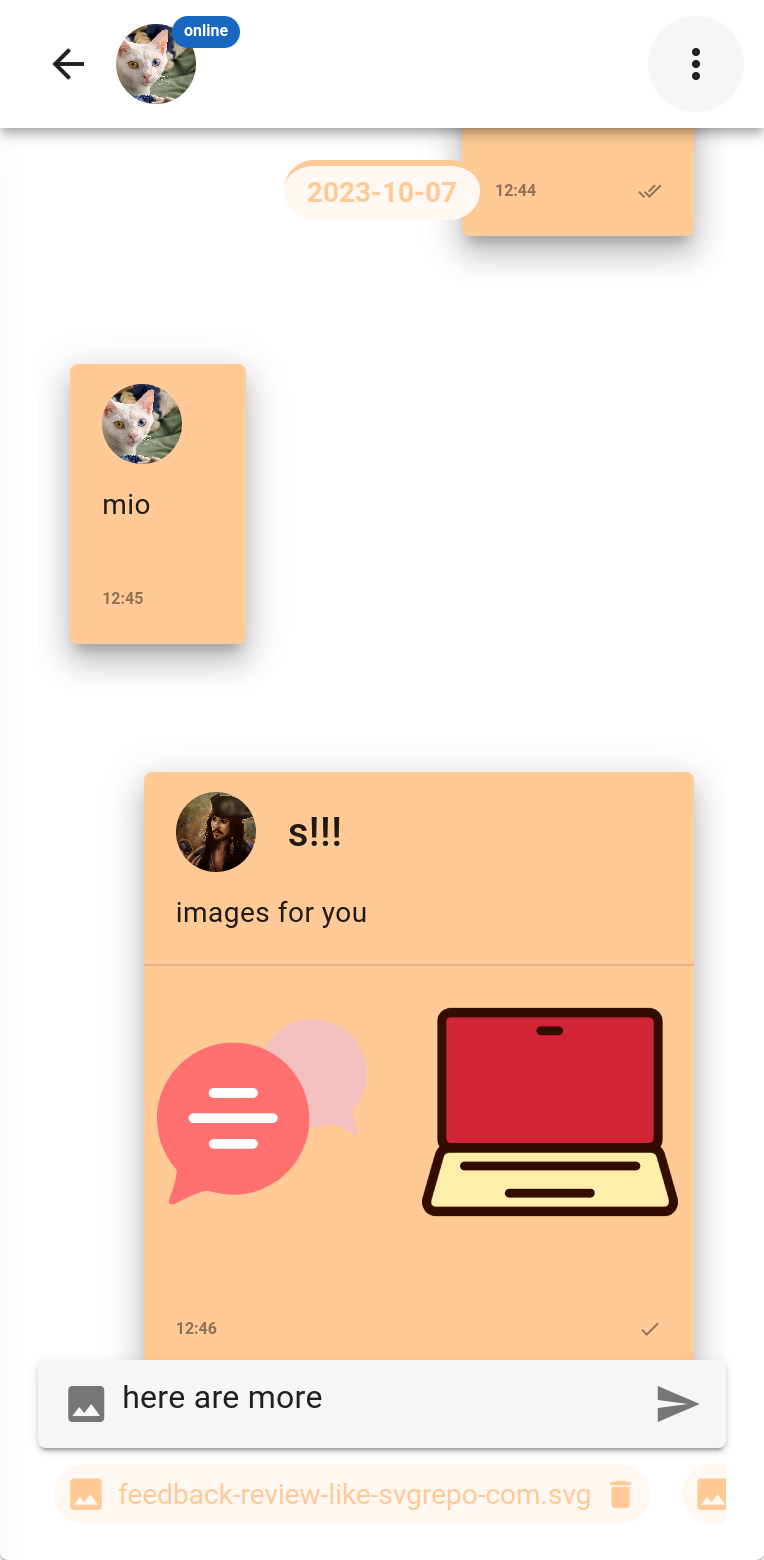
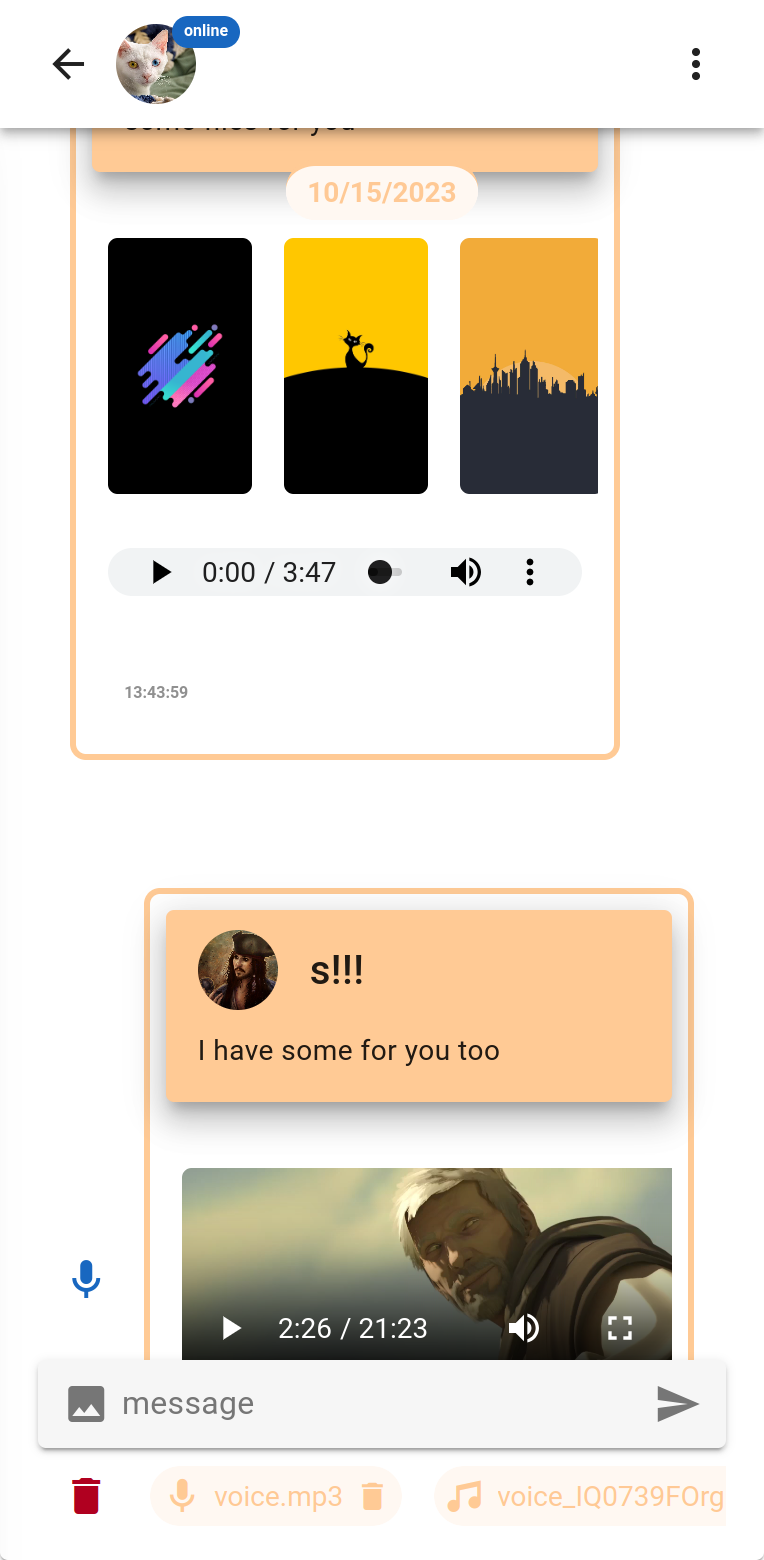
38

diff --git a/src/components/tgChatPage.vue b/src/components/tgChatPage.vue
@@ -13,24 +13,30 @@
 
     </v-card>
 
-      <div v-if="message.files.filter(name=>getType(name)?.startsWith('image')).length" style="display: flex;overflow: auto;white-space: nowrap;height: 10rem;align-items: end;">
-        <template  v-for="file in message.files.filter(name=>getType(name)?.startsWith('image'))" :key="file">
+      <div v-if="message.files.filter(name=>getFileType(name)=='image').length" style="display: flex;overflow: auto;white-space: nowrap;height: 10rem;align-items: end;">
+        <template  v-for="file in message.files.filter(name=>getFileType(name)=='image')" :key="file">
           <img @click="sheet = !sheet;image=`/api/files/chatMessages/${message.id}/${file}`" style="border-radius: .3rem;margin: .5rem;height: 8rem;" :src="`/api/files/chatMessages/${message.id}/${file}`" onerror="this.style.display='none'">
         </template>
       </div>
-      <div v-if="message.files.filter(name=>getType(name)?.startsWith('video')).length" style="display: flex;overflow: auto;white-space: nowrap;height: 10rem;align-items: end;margin-bottom: 1rem;">
-        <template  v-for="file in message.files.filter(name=>getType(name)?.startsWith('video'))" :key="file">
+      <div v-if="message.files.filter(name=>getFileType(name)=='video').length" style="display: flex;overflow: auto;white-space: nowrap;height: 10rem;align-items: end;margin-bottom: 1rem;">
+        <template  v-for="file in message.files.filter(name=>getFileType(name)=='video')" :key="file">
           <video controls preload="metadata" style="margin: .5rem;height: 8rem;border-radius: .3rem;" :src="`/api/files/chatMessages/${message.id}/${file}`" onerror="this.style.display='none'"></video>
         </template>
       </div>
       <div style="display: flex;align-items: center;flex-direction: column;">
-        <template  v-for="file in message.files.filter(name=>getType(name)?.startsWith('audio'))" :key="file">
+        <template  v-for="file in message.files.filter(name=>getFileType(name)=='audio')" :key="file">
           <audio preload="metadata" style="height: 1.5rem;margin: .25rem;max-width: calc(100% - 1rem);" controls :src="`/api/files/chatMessages/${message.id}/${file}`"></audio>
         </template>
       </div>
-      <div v-if="message.files.length" style="display: flex;overflow: auto;white-space: nowrap;margin-top: 1rem;">
-        <template  v-for="file in message.files.filter(name=>{return(!getType(name) || !(getType(name).startsWith('image') || getType(name).startsWith('video') ||getType(name).startsWith('audio')))})" :key="file">
-          <a style="text-decoration: none;" download :href="`/api/files/chatMessages/${message.id}/${file}`"><v-btn color="primary" icon="mdi-file" rounded style="margin: .5rem;"></v-btn></a>
+      <div style="display: flex;overflow: scroll;white-space: nowrap;margin-top: .5rem;">
+        <template  v-for="file in message.files.filter(name=>getFileType(name)=='misc')" :key="file">
+          <!-- <a class="fileBtn" style="text-decoration: none;margin-right: 1rem;" :download="file.slice(0,file.lastIndexOf('.')-11)+file.slice(file.lastIndexOf('.'))" :href="`/api/files/chatMessages/${message.id}/${file}`"> -->
+                <!-- <v-btn size="2.5rem" color="primary" prepend-icon="mdi-file" rounded style="margin: .5rem;"></v-btn> -->
+                <!-- <v-chip showName="false" style="margin-right: 1rem;" color="primary"><template #prepend><a class="fileBtn" style="text-decoration: none;" :download="file.slice(0,file.lastIndexOf('.')-11)+file.slice(file.lastIndexOf('.'))" :href="`/api/files/chatMessages/${message.id}/${file}`"><v-icon icon="mdi-file"></v-icon></a></template><template #append><v-icon @click.stop="()=>{showName = !showName}" :icon="showName ? 'mdi-arrow-left' : 'mdi-arrow-right'"></v-icon></template>{{ showName ? file.slice(0,file.lastIndexOf('.')-11)+file.slice(file.lastIndexOf('.')) : null }}</v-chip> -->
+          <!-- </a> -->
+          <div style="width: fit-content;">
+            <tg-file-chip :link="`/api/files/chatMessages/${message.id}/${file}`" :fileName="file"></tg-file-chip>
+          </div>
         </template>
       </div>
 
@@ -73,7 +79,7 @@
       closable
       color="var(--tgBrown)"
       close-icon="mdi-delete"
-      prepend-icon="mdi-image"
+      :prepend-icon="file.name=='voice.mp3' ? 'mdi-microphone' : getIcon(getFileType(file.name))"
       :model-value="true"
     >
       {{ file.name }}
@@ -169,6 +175,9 @@
 .fromYou{
     align-self: flex-end;
 }
+.fileBtn:hover{
+  width: fit-content;
+}
 </style>
 
 
@@ -185,7 +194,9 @@ import {storeToRefs} from 'pinia'
 import {useDataStore} from '@/store/dataStore'
 import {getChatMessages,getChatMessageById,getPreviousChatMessages,getNextChatMessages,getLastChatMessages} from '@/funcs/chatFuncs'
 
-import { getType } from "mime-lite";
+import { getType } from "mime";
+
+import tgFileChip from '@/components/tgFileChip.vue'
 
 const{updateUnseenCount}=useDataStore()
 const{rels,allChatMessages}=storeToRefs(useDataStore())
@@ -493,5 +504,15 @@ function resumeRecording() {
   mediaRecorder.resume();
 }
 
+function getFileType(name){
+  const fileType=getType(name) ?? 'misc'
+  if (fileType.startsWith('image')) {return 'image'}
+  else if (fileType.startsWith('video')) {return 'video'}
+  else if (fileType.startsWith('audio')) {return 'audio'}
+  else {return 'misc'}
+}
 
+function getIcon(fileType){
+  if(fileType=='misc') return 'mdi-file';else if(fileType=='audio') return 'mdi-music';else return `mdi-${fileType}`;
+}
 </script>

diff --git a/src/components/tgFileChip.vue b/src/components/tgFileChip.vue
@@ -1,0 +1,22 @@
+<template>
+    <v-chip @click.stop="()=>{}" style="margin: .5rem;width: fit-content;" color="primary">
+    <template #prepend>
+        <a style="text-decoration: none;" :download="props.fileName.slice(0,props.fileName.lastIndexOf('.')-11)+props.fileName.slice(props.fileName.lastIndexOf('.'))" :href="props.link">
+        <v-icon icon="mdi-file"></v-icon>
+        </a>
+        </template>
+        <template #append>
+            <v-icon @click.self="()=>{showName = !showName}" :icon="showName ? 'mdi-chevron-left' : 'mdi-chevron-right'"></v-icon>
+            </template>
+            {{ lable }}
+            </v-chip>
+</template>
+
+<script setup>
+import { ref, defineProps, computed } from "vue";
+
+const showName=ref(false)
+const props=defineProps(['fileName','link'])
+
+const lable=computed(()=>(showName.value ? props.fileName.slice(0,props.fileName.lastIndexOf('.')-11)+props.fileName.slice(props.fileName.lastIndexOf('.')) : null))
+</script>
